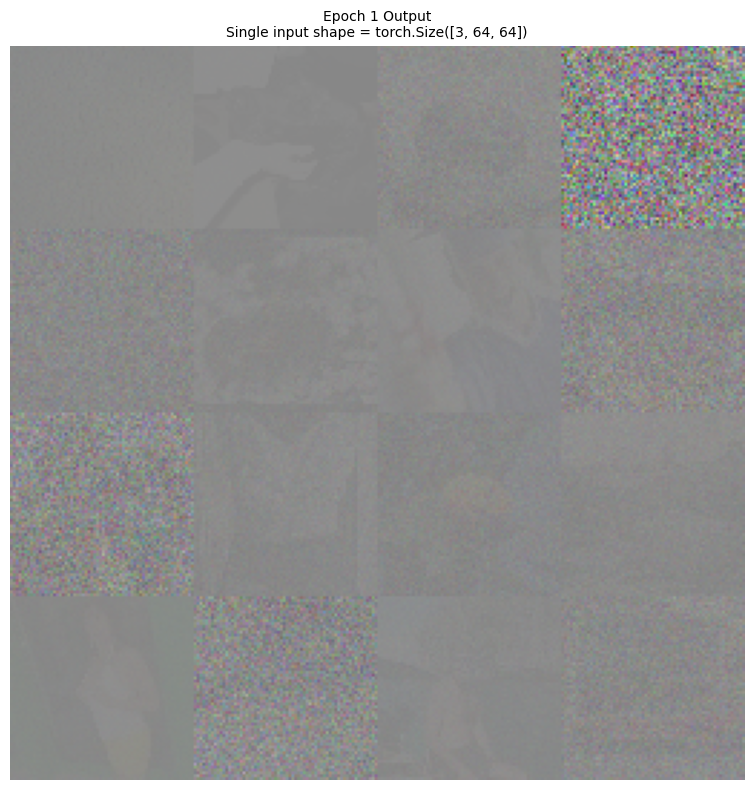
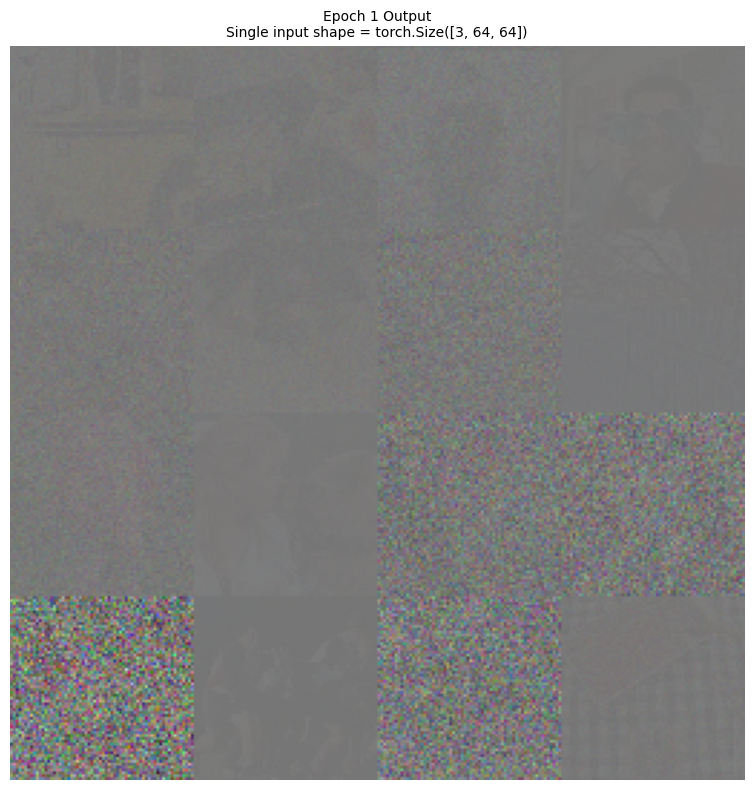
Update DiT

diff --git a/dit.py b/dit.py
@@ -179,8 +179,8 @@ class DiT(nn.Module):
             hidden_states = layer(hidden_states, scales)
         hidden_states = self.post_norm(hidden_states) 
         hidden_states = self.post_linear(hidden_states) #B, 64, 1024 -> B, 64, 96
-        hidden_states = torch.reshape(hidden_states, (z.shape[0], 8, 8, 6, 6, 6))
+        hidden_states = torch.reshape(hidden_states, (z.shape[0], 8, 8, 4, 4, 6))
         hidden_states = hidden_states.permute(0, 1, 3, 2, 4, 5)
-        hidden_states  = hidden_states.reshape((-1, 6, 32, 32))
+        hidden_states  = hidden_states.reshape((-1, 32, 32, 6)).transpose(1,-1)
         noise = self.upsample(hidden_states)
         return noise
